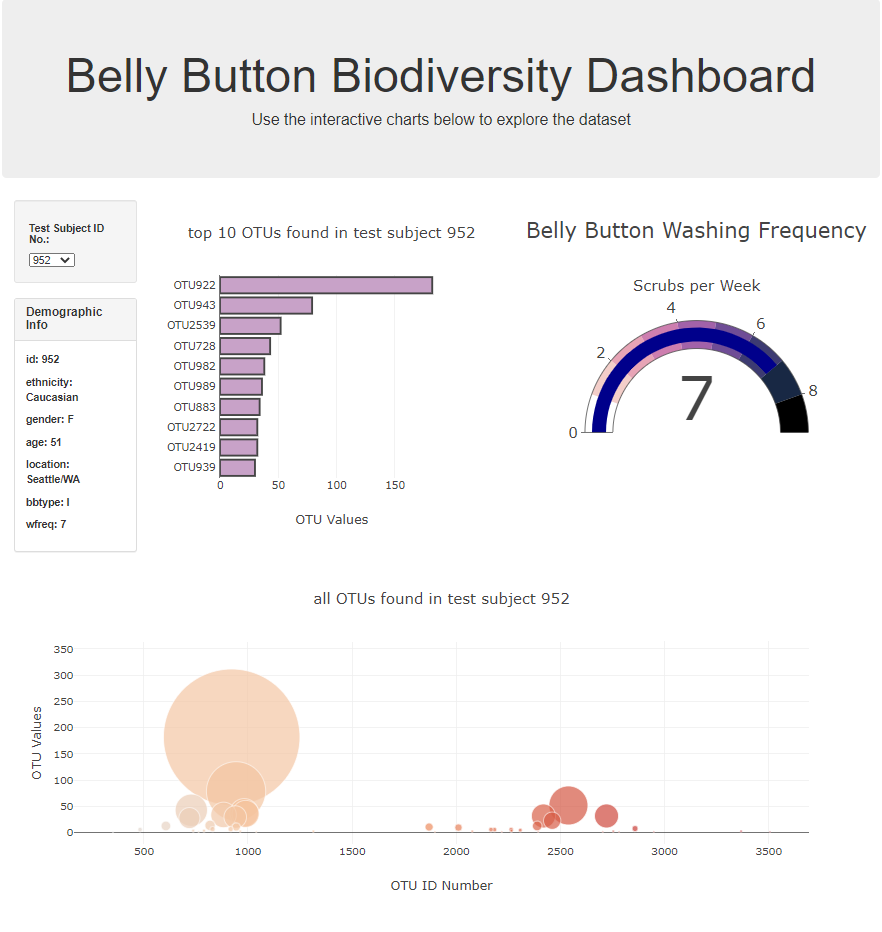
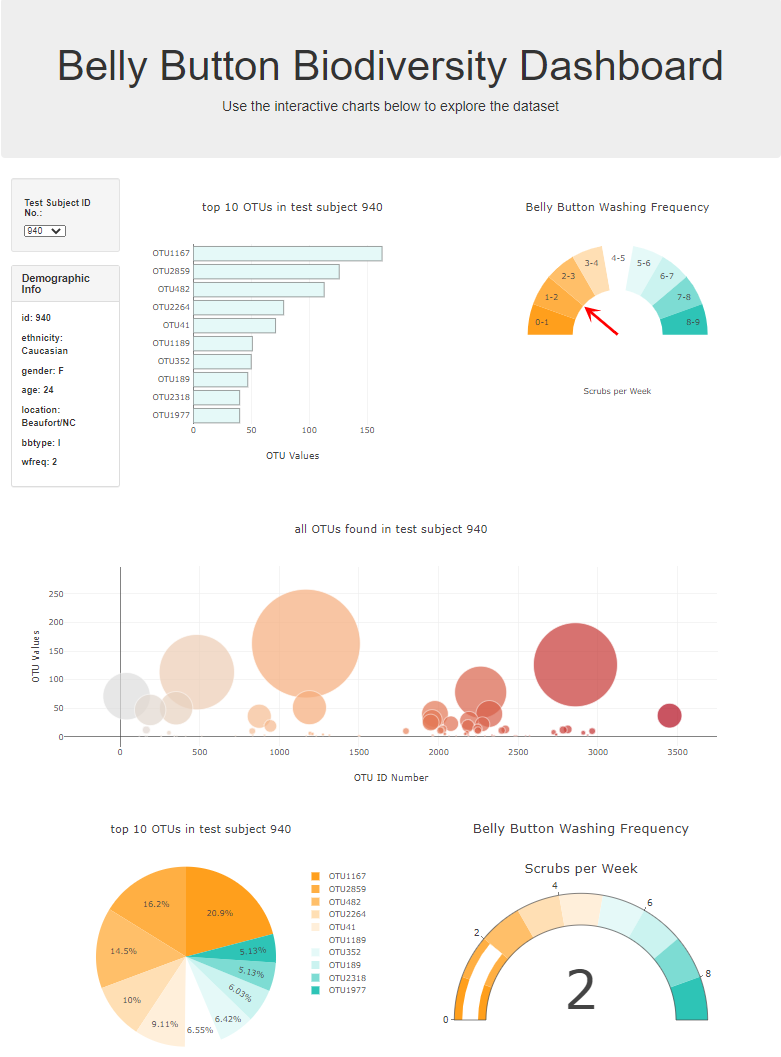
donut chart

diff --git a/static/js/app.js b/static/js/app.js
@@ -4,61 +4,50 @@ UpdatePage();
 d3.select("#selDataset").on("change", UpdatePage);
 // Function update the page content
 function UpdatePage() {
-  d3.json("data/samples.json").then(function(dataSamples) {
-      // Fetch the JSON data and log it into console to check the array size
-      console.log(dataSamples);
-      // make sure every object is unique in the dataset
-      let uniqueNames=dataSamples["names"].filter((item, i, ar) => ar.indexOf(item) === i);
-      console.log(uniqueNames);
-      // apppend the subject id into the dropdown menu
-      uniqueNames.forEach(name => d3.select("#selDataset").append("option").text(name));
-      //-------------------------update demographic info---------------------------------------
-      // get the Test Subject ID number from the dropdown menu
-      let selectedId=d3.select("#selDataset").property("value");
-      console.log(selectedId); // validate ID
-      d3.select("#sample-metadata").html(""); // clear the previrous paragraphs
-      // match the id with metadata
-      let selectedMeta=dataSamples['metadata'].filter(sampleInfo =>sampleInfo["id"]==selectedId);
-      console.log(selectedMeta[0]); // validate the selected metadata
-      // output the Demographic Info to DOM
-      selectedMeta.forEach(demoInfo=> {
-          Object.entries(demoInfo).forEach(([key,value])=> {
-              d3.select("#sample-metadata").append("p").append("strong").text(`${key}: ${value}`);
-          })
-      });
-      // select the sample otu data based on id
-      let selectedOtus=dataSamples['samples'].filter(otu => otu["id"]==selectedId);
-      // store id, value, and labels to an array
-      let otuIds=selectedOtus[0].otu_ids;
-      let sampleValues=selectedOtus[0].sample_values;
-      let otuLabels=selectedOtus[0].otu_labels;
-      let selectedList=otuIds.map((a,i)=>[a,sampleValues[i],otuLabels[i]]);
-      console.log(selectedList);
-      // get the top 10 OTUs 
-      sortedList=selectedList.sort((a,b)=>(b[1]-a[1])).slice(0,10);
-      console.log(sortedList); // validate the data
-      //create the horizontal bar chart
-      PlotBar(sortedList, selectedId);
-      //create bubble chart
-      PlotBubble (otuIds, sampleValues,selectedList, selectedId);  
-      //create the gauge chart(Bonus Part)
-      PlotGauge (selectedMeta[0].wfreq);
-      // create a pie chart based on top 10 OTUs
-      var dataPie=[{
-          type:'pie',
-          marker: {
-            colors: ['rgb(56, 75, 126)', 'rgb(18, 36, 37)', 'rgb(34, 53, 101)', 'rgb(36, 55, 57)', 'rgb(6, 4, 4)',
-            'rgb(177, 127, 38)', 'rgb(205, 152, 36)', 'rgb(151, 179, 100)', 'rgb(129, 180, 179)', 'rgb(124, 103, 37)']
-          },
-          values:sortedList.map(a=>a[1]),
-          labels:sortedList.map(a=>`OTU${a[0]} `)
-      }];
-      var layout = {
-        title: `top 10 OTUs in test subject ${selectedId}`,
-        font: {size: 14}
-    };
-      Plotly.newPlot('pie',dataPie,layout);
-  });
+    d3.json("data/samples.json").then(function(dataSamples) {
+        // Fetch the JSON data and log it into console to check the array size
+        console.log(dataSamples);
+        // make sure every object is unique in the dataset
+        let uniqueNames=dataSamples["names"].filter((item, i, ar) => ar.indexOf(item) === i);
+        console.log(uniqueNames);
+        // apppend the subject id into the dropdown menu
+        uniqueNames.forEach(name => d3.select("#selDataset").append("option").text(name));
+        //-------------------------update demographic info---------------------------------------
+        // get the Test Subject ID number from the dropdown menu
+        let selectedId=d3.select("#selDataset").property("value");
+        console.log(selectedId); // validate ID
+        d3.select("#sample-metadata").html(""); // clear the previrous paragraphs
+        // match the id with metadata
+        let selectedMeta=dataSamples['metadata'].filter(sampleInfo =>sampleInfo["id"]==selectedId);
+        console.log(selectedMeta[0]); // validate the selected metadata
+        // output the Demographic Info to DOM
+        selectedMeta.forEach(demoInfo=> {
+            Object.entries(demoInfo).forEach(([key,value])=> {
+                d3.select("#sample-metadata").append("p").append("strong").text(`${key}: ${value}`);
+            })
+        });
+        // select the sample otu data based on id
+        let selectedOtus=dataSamples['samples'].filter(otu => otu["id"]==selectedId);
+        // store id, value, and labels to an array
+        let otuIds=selectedOtus[0].otu_ids;
+        let sampleValues=selectedOtus[0].sample_values;
+        let otuLabels=selectedOtus[0].otu_labels;
+        let selectedList=otuIds.map((a,i)=>[a,sampleValues[i],otuLabels[i]]);
+        console.log(selectedList);
+        // get the top 10 OTUs 
+        sortedList=selectedList.sort((a,b)=>(b[1]-a[1])).slice(0,10);
+        console.log(sortedList); // validate the data
+        //create the horizontal bar chart
+        PlotBar(sortedList, selectedId);
+        //create bubble chart
+        PlotBubble (otuIds, sampleValues,selectedList, selectedId);  
+        //create the gauge chart(Bonus Part)
+        PlotGauge (selectedMeta[0].wfreq);
+        // create a pie chart based on top 10 OTUs
+        PlotPie (sortedList, selectedId);
+        // create a donut chart based on wash frequence
+        PlotDonut (selectedMeta[0].wfreq);
+    });
 };
 
 function PlotBar (sortedList, selectedId) {
@@ -68,15 +57,15 @@ function PlotBar (sortedList, selectedId) {
             y: sortedList.map(a=>`OTU${a[0]} `).reverse(),
             text: sortedList.map(a=>a[2]).reverse(),
             marker: {
-                color: '#C8A2C8',
-                line: {width: 2.5}
+                color: 'e5f9f8',
+                line: {width: 0.5}
             },
             orientation: 'h'
         }];
     var layout = {
             title: `top 10 OTUs in test subject ${selectedId}`,
             xaxis: {title: 'OTU Values'},
-            font: {size: 14},
+            font: {size: 12},
             showlegend: false
         };
     Plotly.newPlot('bar', data, layout);
@@ -95,7 +84,7 @@ function PlotBubble(otuIds, sampleValues,selectedList, selectedId){
       };
   var layout = {
           title: `all OTUs found in test subject ${selectedId}`,
-          font: {size: 14},
+          font: {size: 12},
           xaxis: {title: 'OTU ID Number'},
           yaxis: {title: 'OTU Values'},
           showlegend: false
@@ -110,22 +99,73 @@ function PlotGauge (inNum) {
         type: "indicator",
         gauge: {
             axis: { range: [null, 9] },
-            bar: { color: "darkblue" },
-            steps: [{ range: [0,1], color: '#ffffff'},
-                    { range: [1,2], color: '#f3cec9'},
-                    { range: [2,3], color: '#e7a4b6'},
-                    { range: [3,4], color: '#cd7eaf'},
-                    { range: [4,5], color: '#a262a9'},
-                    { range: [5,6], color: '#6f4d96'},
-                    { range: [6,7], color: '#3d3b72'},
-                    { range: [7,8], color: '#182844'},
-                    { range: [8,9], color: '#000000'}]
+            bar: { color: "#fff" },
+            steps: [{ range: [0,1], color: '#ff9f1c'},
+                    { range: [1,2], color: '#ffaf43'},
+                    { range: [2,3], color: '#ffbf69'},
+                    { range: [3,4], color: '#ffdfb4'},
+                    { range: [4,5], color: '#ffefda'},
+                    { range: [5,6], color: '#e5f9f8'},
+                    { range: [6,7], color: '#cbf3f0'},
+                    { range: [7,8], color: '#7ddcd3'},
+                    { range: [8,9], color: '#2ec4b6'}]
         },
         mode: "gauge+number"
     };      
     var layout = {
             title: 'Belly Button Washing Frequency',
-            font: {size: 20}
+            font: {size: 14}
         };
   Plotly.newPlot('gauge', [trace2] , layout);
+};
+
+function PlotPie (sortedList, selectedId){
+  var dataPie=[{
+          type:'pie',
+          marker: {
+            colors: ["ff9f1c","ffaf43","ffbf69","ffdfb4","ffefda","ffffff","e5f9f8","cbf3f0","7ddcd3","2ec4b6"]
+          },
+          values:sortedList.map(a=>a[1]),
+          labels:sortedList.map(a=>`OTU${a[0]} `)
+      }];
+  var layout = {
+          title: `top 10 OTUs in test subject ${selectedId}`,
+          font: {size: 12}
+      };
+  Plotly.newPlot('pie',dataPie,layout);
+};
+
+function PlotDonut(x) {
+  var data = [{
+    values: [1,1,1,1,1,1,1,1,1,9],
+    labels: ['0-1','1-2','2-3','3-4','4-5','5-6','6-7','7-8','8-9','Scrubs per Week'],
+    marker: {colors: [ "#ff9f1c","#ffaf43","#ffbf69","#ffdfb4","#fff","e5f9f8","cbf3f0","7ddcd3","2ec4b6", "#ffffff"]},
+    direction: 'clockwise',
+    hole: .5,
+    textinfo:"label",
+    domain: {"x": [0,1]},
+    rotation:90,
+    textposition: 'inside',
+    type: 'pie'
+  }];
+  var layout = {
+    title: 'Belly Button Washing Frequency',
+    annotations: [
+          {
+              showarrow: true,
+              arrowside: 'start',
+              arrowcolor: '#f00',
+              startarrowhead:3,
+              arrowwidth:4,
+              x: 0.5,
+              y: 0.5,
+              ax: Math.cos(Math.PI*(9-x)/9)*70,
+              ay: -Math.sin(Math.PI*(9-x)/9)*70
+          },
+      ],
+    showlegend: false,
+    xaxis:{zeroline: false}
+  };
+  
+  Plotly.newPlot('donut', data, layout);
 };

diff --git a/index.html b/index.html
@@ -35,7 +35,7 @@
         <div id="bar"></div>
       </div>
       <div class="col-md-5">
-        <div id="gauge"></div>
+        <div id="donut"></div>
       </div>
     </div>
     <div class="row">
@@ -48,7 +48,7 @@
         <div id="pie"></div>
       </div>
       <div class="col-md-6">
-        <div id="needle"></div>
+        <div id="gauge"></div>
       </div>
     </div>
   </div>
